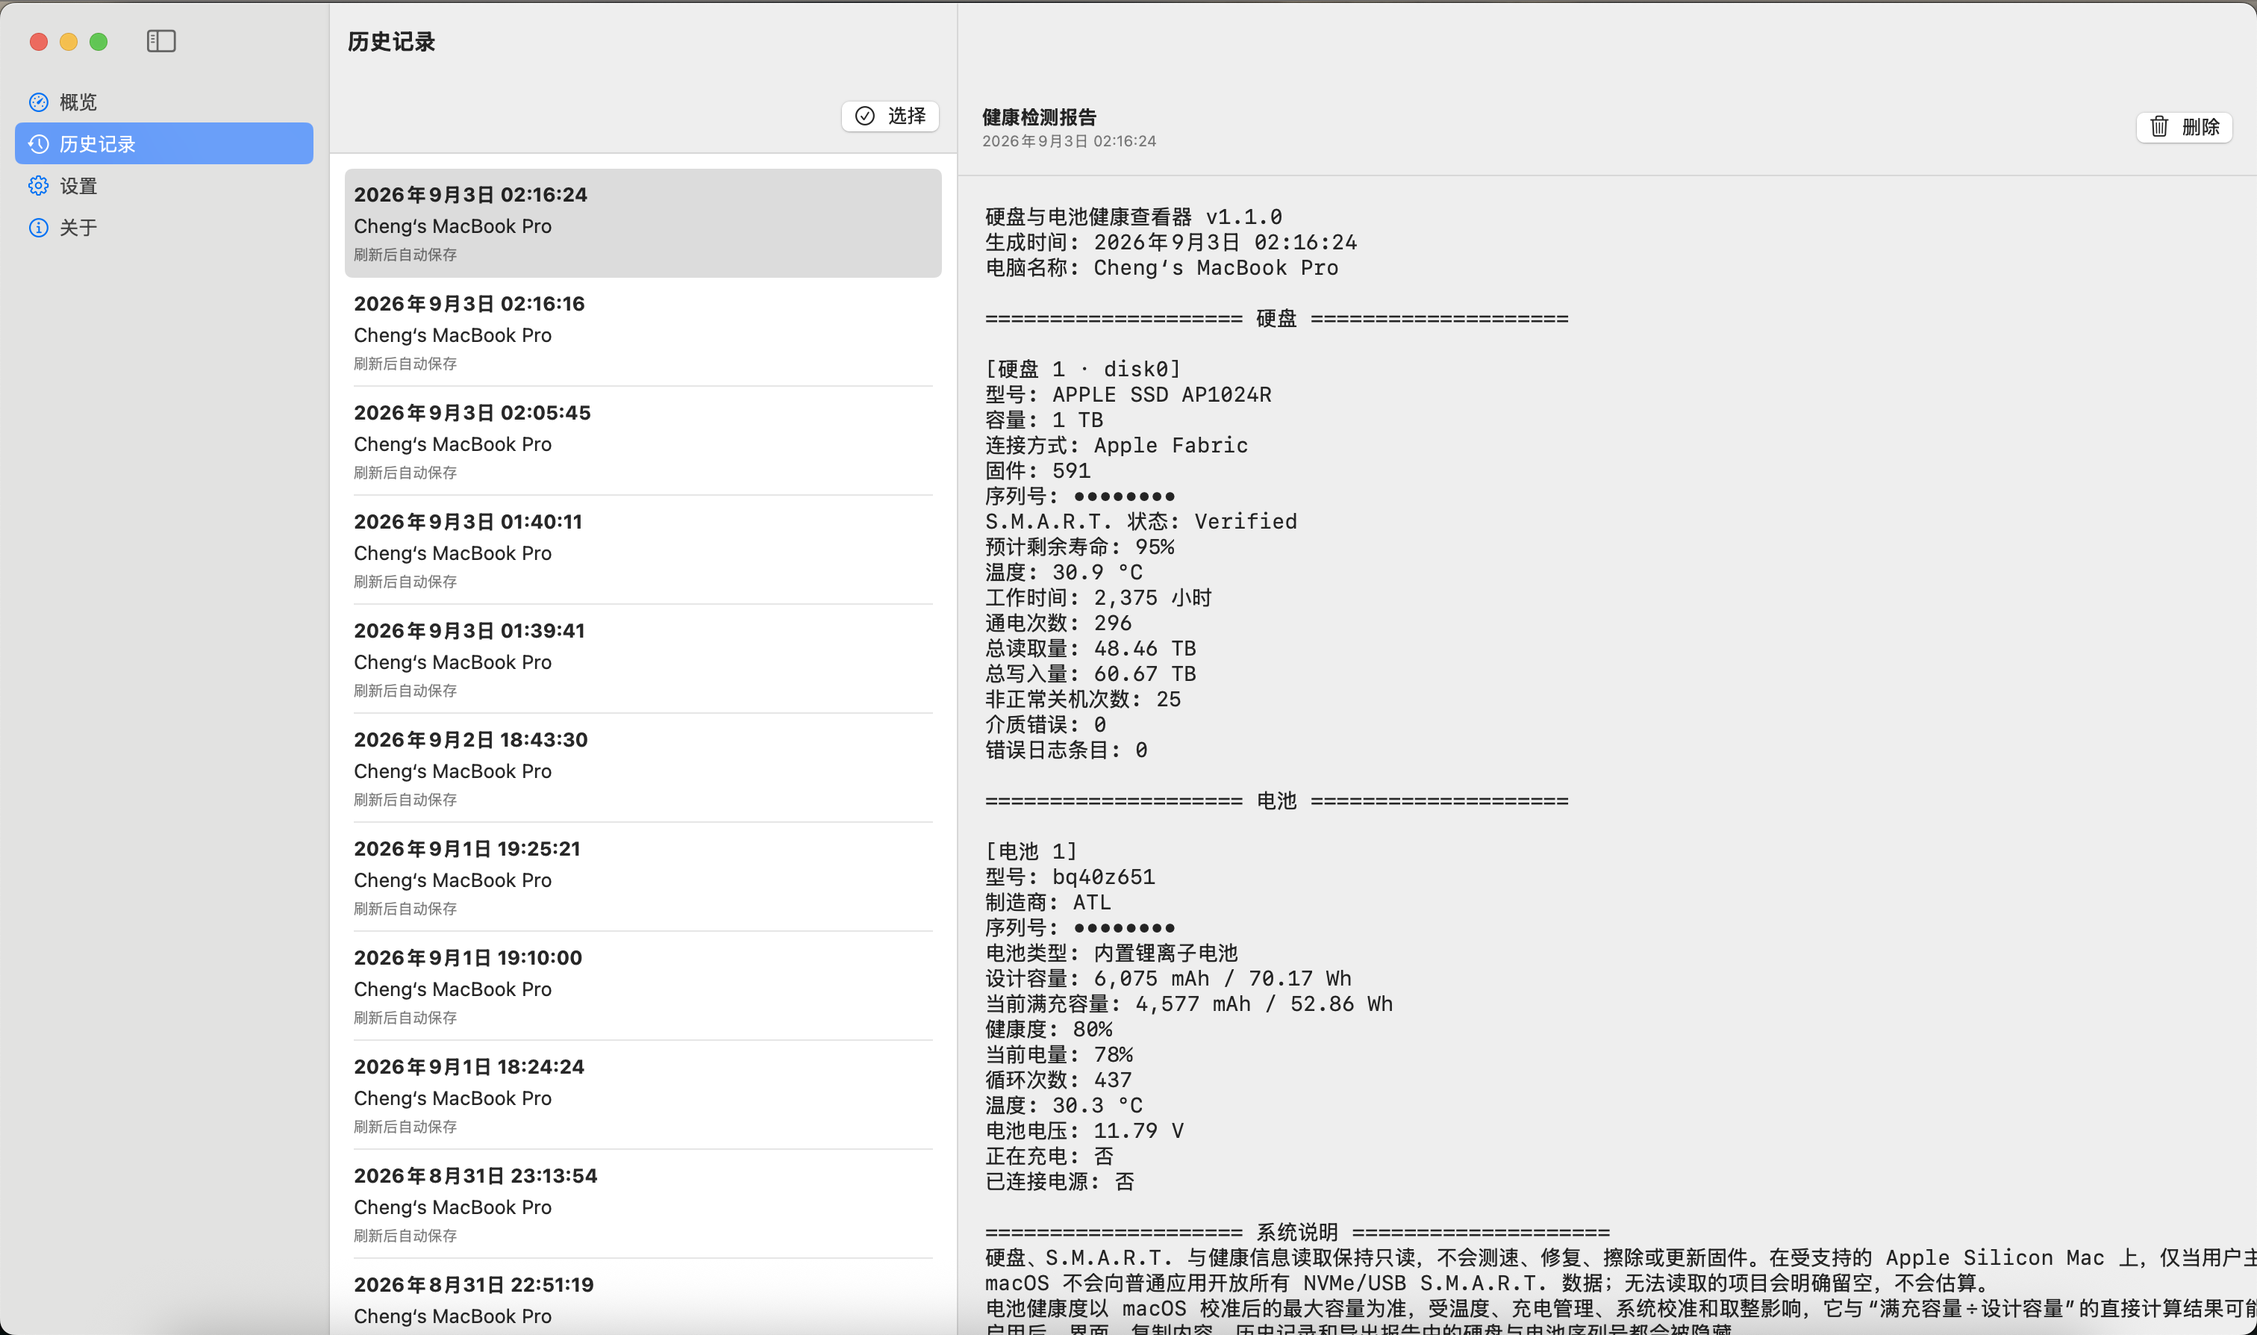
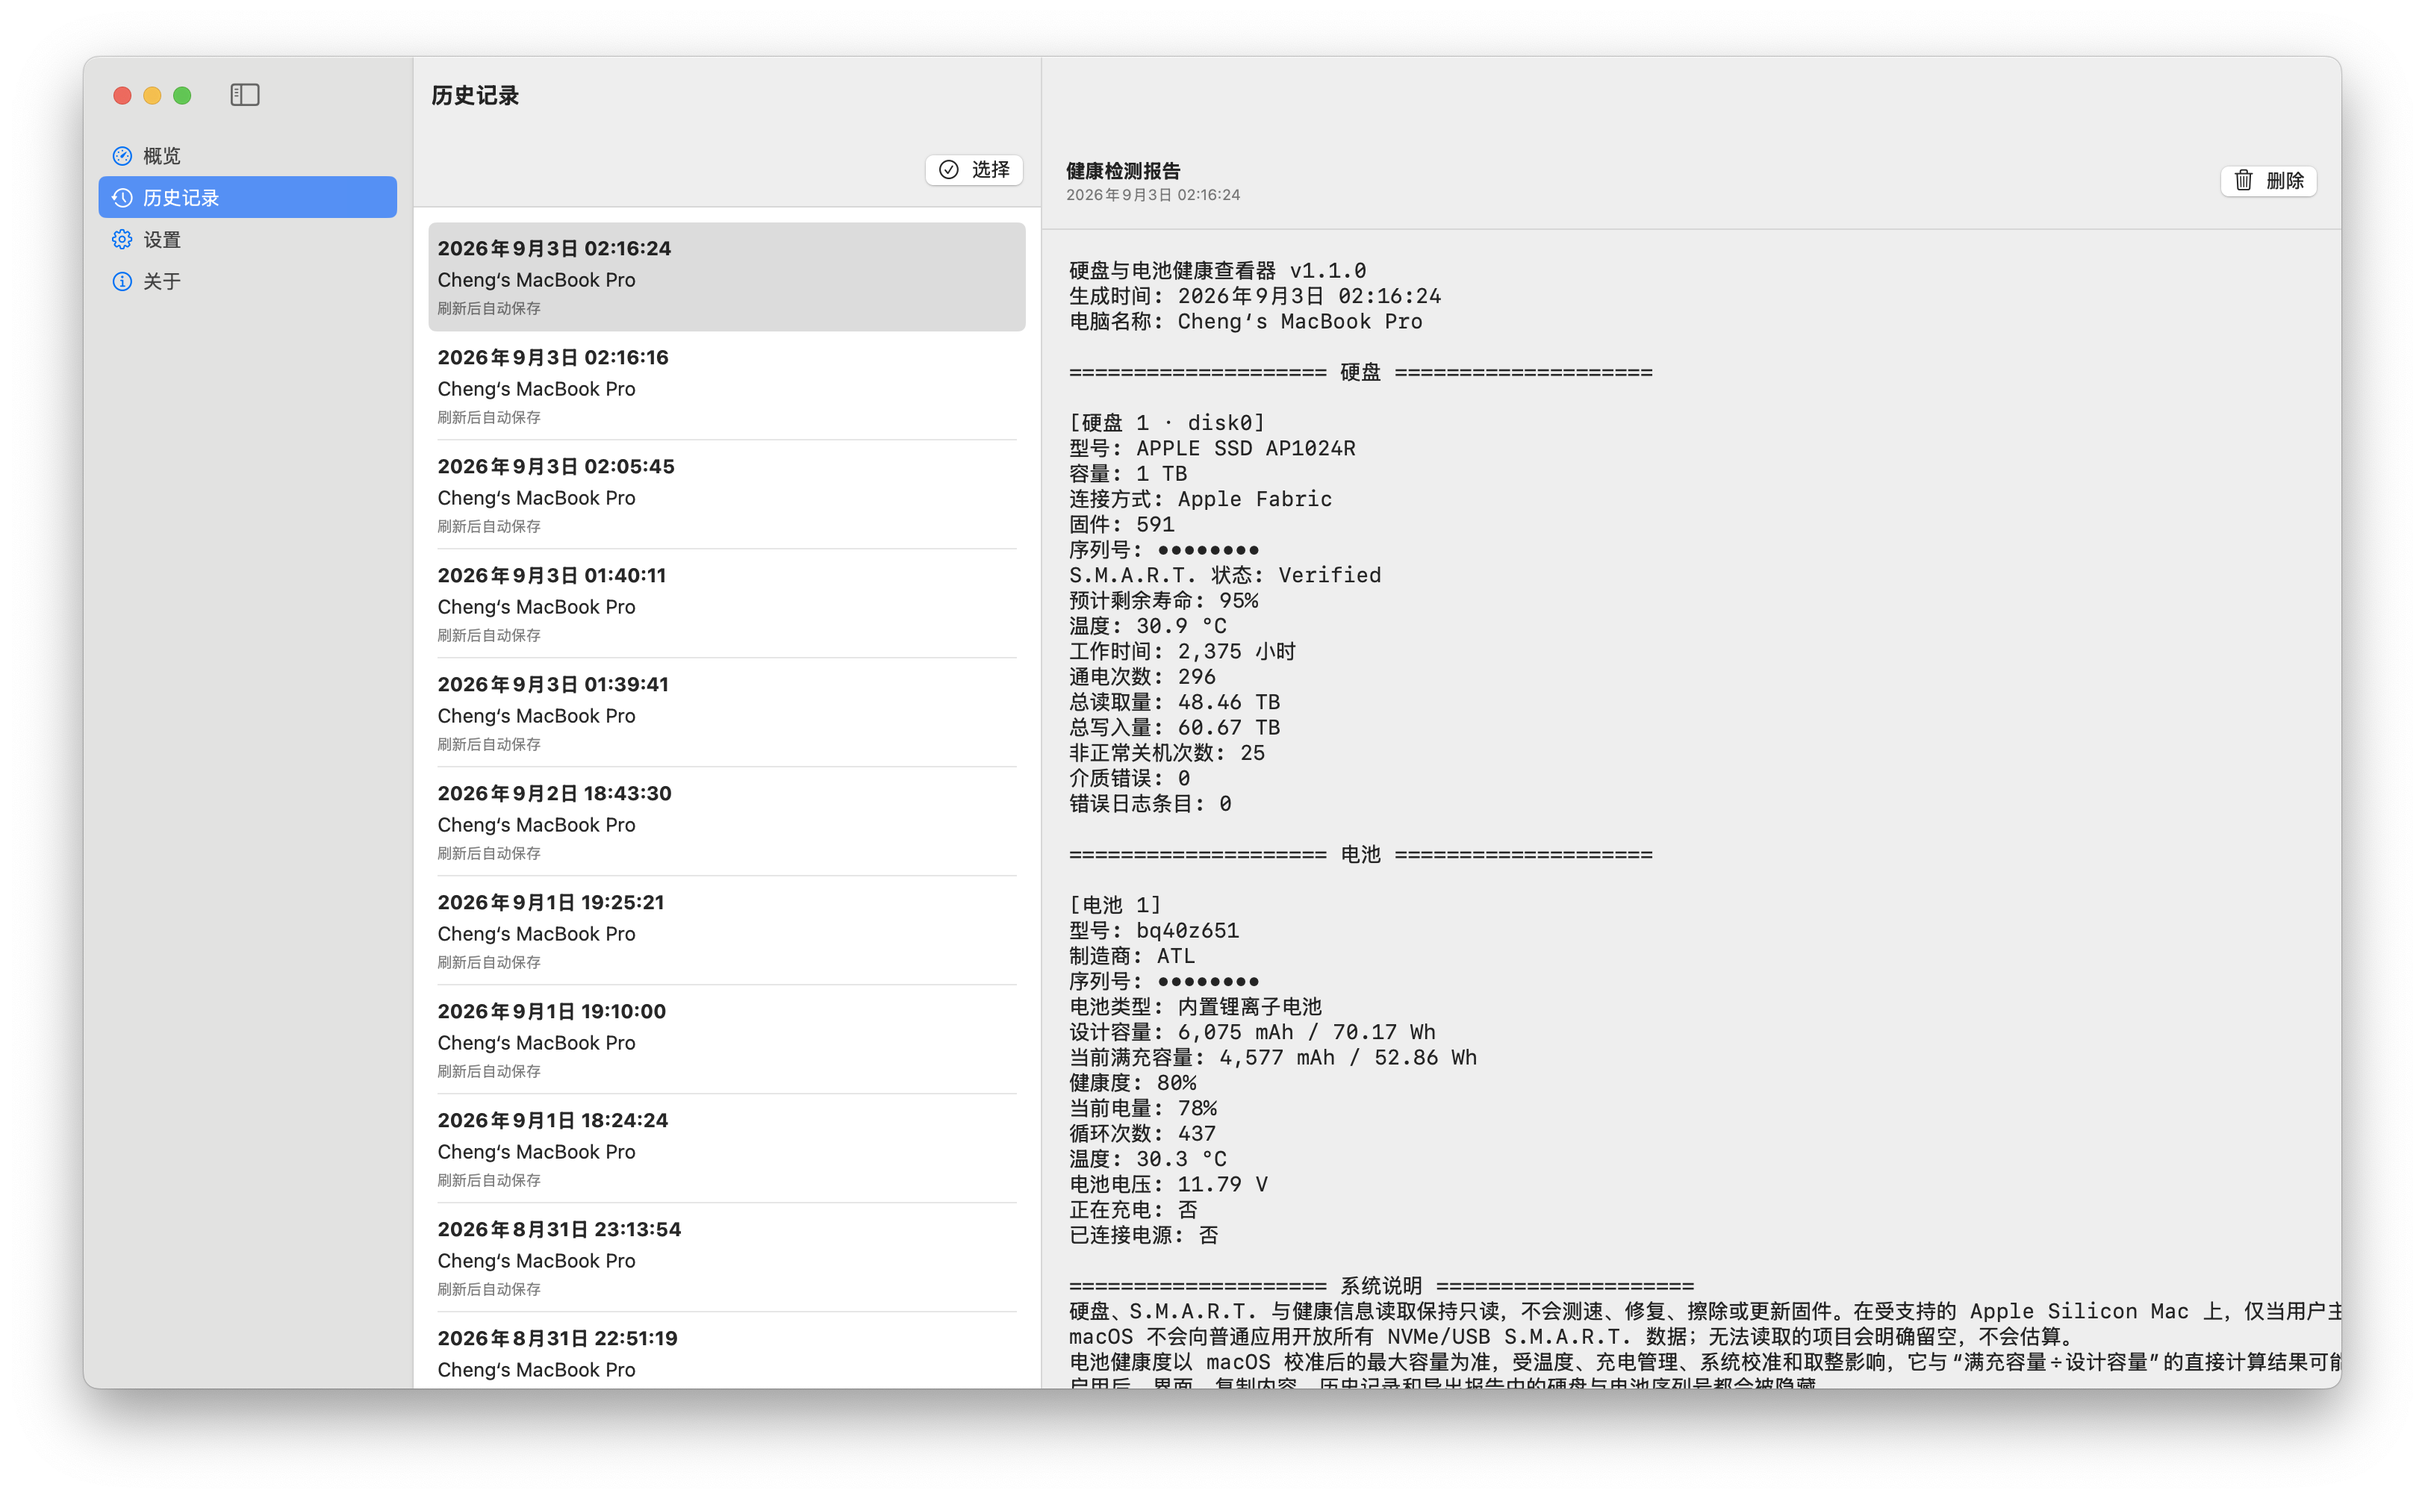
Refresh macOS screenshots

diff --git a/README_EN.md b/README_EN.md
@@ -40,7 +40,7 @@ The current Windows release is v1.0.6. The installer is recommended and guides y
 
 ![macOS History](docs/screenshots/macos-history-zh.png)
 
-![macOS menu-bar charge protection](docs/screenshots/macos-charge-protection-menu-zh.png)
+<img src="docs/screenshots/macos-charge-protection-menu-zh.png" alt="macOS menu-bar charge protection" width="480">
 
 ### Windows main window
 
